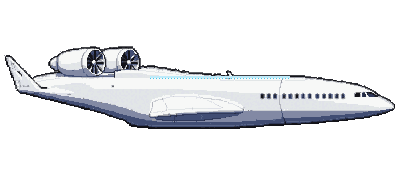
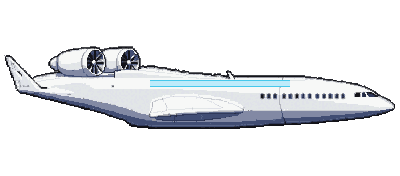
Bolder layers (a child should see them at 320): 787 GEnx band (5 px bright blue + white edge) and raked tip (bold cyan upturned tip), truss hinge (3-4 px black/yellow) and laminar dashes (cyan), hydrogen tank frost band (7 rows) and laminar dashes; the capability caption reads '~23k km' so the hydro

Changed region(s): [[0.36, 0.4261, 0.75, 0.5114]]

diff --git a/src/hangar.js b/src/hangar.js
@@ -178,7 +178,7 @@ export class FleetHangar {
   // The range in the picture caption (the flying plane only): a span so the background estimate can swap it (#hCap).
   capHTML(s) {
     const km = capFor(s, areaOf(s.city) || null);
-    return km ? `<span id="hCap" class="hcap" title="How far your plane and nature can reach">~${km.toLocaleString('en-GB')} km</span>`
+    return km ? `<span id="hCap" class="hcap" title="How far your plane and nature can reach">~${Math.round(km / 1000)}k km</span>`
       : `<span id="hCap" class="hcap working" title="Working out how far your plane can go">${estimating() ? '~ km' : ''}<i class="dots"></i></span>`;
   }
   // NATURE FINANCE (src/finance.js), from the 2010s: the desk's level, today's rate from your nature's health (a bar: fewer

diff --git a/tools/art/make_future_layers.py b/tools/art/make_future_layers.py
@@ -6,6 +6,7 @@ from PIL import Image
 import math, os
 ROOT = os.path.join(os.path.dirname(os.path.abspath(__file__)), '..', '..')
 OUT = os.path.join(ROOT, 'assets/ui/upgrades')
+YELLOW = (255, 208, 64, 255)
 CYAN, ICE, GREEN, BLACK = (70, 200, 235, 255), (190, 235, 250, 255), (70, 190, 110, 255), (14, 14, 26, 255)
 
 def load(name): return Image.open(os.path.join(ROOT, f'assets/ui/plane-hangar-{name}.png')).convert('RGBA')
@@ -42,13 +43,16 @@ def truss():
     L = blank(base)                                   # hybrid-electric assist: green electric ring + a green stripe along each pod
     for cx, cy in fans: ring(L, base, cx, cy, 14, GREEN); ring(L, base, cx, cy, 17, ICE); hline(L, base, cx + 12, cx + 24, cy + 9, GREEN); hline(L, base, cx + 12, cx + 24, cy + 10, GREEN)
     out['hybrid'] = L
-    L = blank(base)                                   # folding wingtips: a dark hinge line across the wing near each tip
-    for x in (90, 91, 92, 338, 339, 340):
+    L = blank(base)                                   # folding wingtips: a bold black-and-yellow hinge across the wing near each tip (3 px wide)
+    for x in (88, 89, 90, 91, 336, 337, 338, 339):
         ys = [y for y in range(35, 75) if on(base, x, y)]
-        for y in ys: L.putpixel((x, y), BLACK)
+        for k, y in enumerate(ys): L.putpixel((x, y), YELLOW if (k + (x % 2)) % 2 == 0 else BLACK)
     out['fold'] = L
-    L = blank(base)                                   # laminar-flow skin: a thin bright sheen line along the wing
-    hline(L, base, 100, 340, 54, ICE, 2)
+    L = blank(base)                                   # laminar-flow skin: a bold cyan dashed sheen along the wing (3 rows, 8 px dashes)
+    for x in range(100, 345):
+        if (x // 8) % 2 == 0:
+            for y in range(48, 60):
+                if on(base, x, y) and base.getpixel((x, y))[:3] != BLACK[:3] and sum(base.getpixel((x, y))[:3]) > 300: L.putpixel((x, y), CYAN)
     out['laminar'] = L
     L = blank(base)                                   # window-wall lounge: the cabin windows become one long pale-blue band
     recolour_dark(L, base, (90, 98, 340, 110), ICE)
@@ -67,12 +71,16 @@ def hydrogen():
     L = blank(base)                                   # quieter ducted fans: a soft white ring and a green inner ring
     for cx, cy in fans: ring(L, base, cx, cy, 10, ICE, 2); ring(L, base, cx, cy, 7, GREEN)
     out['ducted'] = L
-    L = blank(base)                                   # insulated hydrogen tanks: a frosty pale-blue band along the back of the body
-    for dy in (0, 1): hline(L, base, 150, 290, 76 + dy, ICE)
-    hline(L, base, 150, 290, 78, CYAN, 3)
+    L = blank(base)                                   # insulated hydrogen tanks: a bold frosty band (5 rows, pale blue with a cyan edge) along the back of the body
+    for y in range(80, 87):
+        for x in range(150, 290):
+            if on(base, x, y) and base.getpixel((x, y))[:3] != BLACK[:3]: L.putpixel((x, y), CYAN if y in (80, 86) else ICE)
     out['tanks'] = L
-    L = blank(base)                                   # laminar flow all over: a thin sheen line along the wing and the nose
-    hline(L, base, 150, 330, 88, ICE, 2)
+    L = blank(base)                                   # laminar flow all over: a bold cyan dashed sheen along the body (3 rows)
+    for x in range(150, 345):
+        if (x // 8) % 2 == 0:
+            for y in range(86, 91):
+                if on(base, x, y) and base.getpixel((x, y))[:3] != BLACK[:3]: L.putpixel((x, y), CYAN)
     out['laminar'] = L
     L = blank(base)                                   # panorama seats: the cabin windows become big pale panels
     recolour_dark(L, base, (255, 92, 372, 101), ICE)

diff --git a/tools/art/make_787_layers.py b/tools/art/make_787_layers.py
@@ -26,10 +26,10 @@ def nacelle(kind):
     for y in range(119, 149):
         for x in range(277, 323):
             if BASE.getpixel((x, y))[3] == 0: L.putpixel((x, y), (0, 0, 0, 0))
-    if kind == 'genx':   # GE's painted blue band round the cowl, close to the fan
-        for y in range(122, 146):
-            for x in (306, 307, 308):
-                if BASE.getpixel((x, y))[3]: L.putpixel((x, y), (52, 92, 158, 255))
+    if kind == 'genx':   # GE's painted blue band round the cowl, close to the fan: a bold 5 px band with a white edge line
+        for y in range(121, 147):
+            for x, c in ((304, (230, 240, 255, 255)), (305, (40, 120, 235, 255)), (306, (40, 120, 235, 255)), (307, (40, 120, 235, 255)), (308, (40, 120, 235, 255)), (309, (20, 70, 170, 255))):
+                if BASE.getpixel((x, y))[3]: L.putpixel((x, y), c)
     else:                # chevrons: the saw-tooth rear edge of the cowl (teeth point back, left)
         for k in range(6):
             y0 = 122 + 4 * k
@@ -51,11 +51,18 @@ def barrel():   # carbon-fibre fuselage: a dark woven strip under the windows
             if BASE.getpixel((x, y))[3]: L.putpixel((x, y), (46, 52, 70, 255) if (x + y) % 2 else (86, 94, 116, 255))
     return L
 
-def raked():    # the raked (upward-curved) wingtip, on the far wing's tip
+def raked():    # the raked (upward-curved) wingtip, on the far wing's tip: a bold curved tip, black outline, white body, a bright cyan end
     L = blank()
-    tip = [(152, 81), (150, 80), (148, 79), (146, 78), (145, 77), (144, 75), (143, 73), (143, 72)]
-    for x, y in tip:
-        L.putpixel((x, y), BLACK); L.putpixel((x, y + 1), (208, 214, 226, 255)); L.putpixel((x + 1, y + 1), (170, 178, 196, 255))
+    pts = [(153, 82), (150, 80), (147, 77), (145, 73), (144, 68), (143, 63)]
+    dense = []
+    for (x0, y0), (x1, y1) in zip(pts, pts[1:]):
+        n = max(abs(x1 - x0), abs(y1 - y0), 1)
+        dense += [(round(x0 + (x1 - x0) * k / n), round(y0 + (y1 - y0) * k / n)) for k in range(n)]
+    for x, y in dense:
+        L.putpixel((x - 1, y), BLACK); L.putpixel((x + 2, y), BLACK)
+        L.putpixel((x, y), (236, 240, 248, 255)); L.putpixel((x + 1, y), (236, 240, 248, 255))
+    for x, y in dense[-6:]: L.putpixel((x, y), (40, 200, 235, 255)); L.putpixel((x + 1, y), (40, 200, 235, 255))
+    for x in range(142, 147): L.putpixel((x, 62), BLACK)
     return L
 
 def dimmable():  # electrochromic windows: the dark window squares turn deep blue-violet
